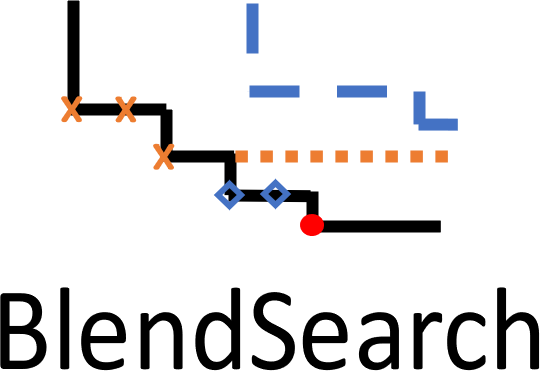
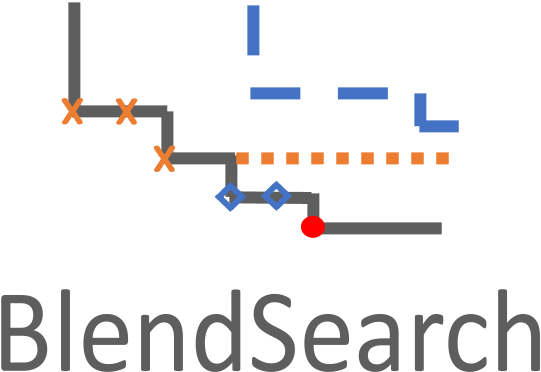
Update version.py (#70)
* Update version.py

* update logo

diff --git a/flaml/version.py b/flaml/version.py
@@ -1,1 +1,1 @@
-__version__ = "0.3.1"
+__version__ = "0.3.2"
